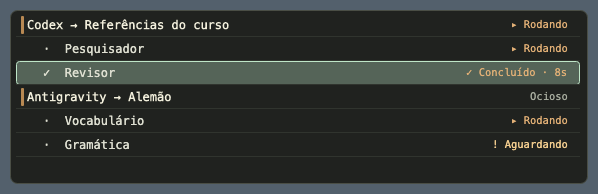
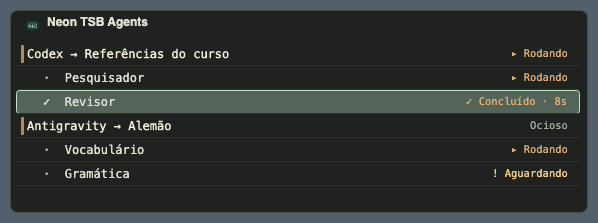
feat(mac): brand the app as Neon TSB Agents

diff --git a/src/TaskbarLed.App.Avalonia/App.axaml.cs b/src/TaskbarLed.App.Avalonia/App.axaml.cs
@@ -4,7 +4,7 @@ using Avalonia.Controls;
 using Avalonia.Controls.ApplicationLifetimes;
 using Avalonia.Markup.Xaml;
 using Avalonia.Media;
-using Avalonia.Media.Imaging;
+using Avalonia.Platform;
 using TaskbarLed.App.Avalonia.Demo;
 using TaskbarLed.App.Avalonia.Panels;
 using TaskbarLed.App.Avalonia.Presentation;
@@ -14,7 +14,7 @@ namespace TaskbarLed.App.Avalonia;
 
 public sealed partial class App : Application
 {
-    internal const string DisplayName = "Neon Task Bar";
+    internal const string DisplayName = "Neon TSB Agents";
 
     public override void Initialize()
     {
@@ -194,20 +194,7 @@ public sealed partial class App : Application
 
     private static WindowIcon CreateTrayIcon()
     {
-        var dots = new TextBlock
-        {
-            Text = "•••",
-            Foreground = Brushes.Black,
-            Background = Brushes.Transparent,
-            FontWeight = FontWeight.Bold,
-            FontSize = 15,
-            TextAlignment = TextAlignment.Center,
-        };
-        var rect = new Rect(0, 0, 24, 16);
-        dots.Measure(rect.Size);
-        dots.Arrange(rect);
-        using var bitmap = new RenderTargetBitmap(new PixelSize(48, 32), new Vector(192, 192));
-        bitmap.Render(dots);
-        return new WindowIcon(bitmap);
+        using var mark = AssetLoader.Open(new Uri("avares://TaskbarLed/Assets/NeonMark.png"));
+        return new WindowIcon(mark);
     }
 }

diff --git a/src/TaskbarLed.App.Avalonia/Panels/FloatingPanelWindow.cs b/src/TaskbarLed.App.Avalonia/Panels/FloatingPanelWindow.cs
@@ -25,7 +25,7 @@ internal sealed class FloatingPanelWindow : Window
     /// <summary>Space between the panel and the Dock, in DIP/points.</summary>
     public const double DockGap = 8;
 
-    public const double PanelHeight = PanelLayout.FloatingHeightDip + 18;
+    public const double PanelHeight = PanelLayout.FloatingHeightDip + 29;
 
     private readonly PanelViewModel _viewModel;
     private readonly Func<PanelFrame> _frames;
@@ -381,8 +381,8 @@ internal sealed class FloatingPanelWindow : Window
 
         var sessionHeight = _viewModel.IsClearList
             ? _viewModel.SessionGroups.Sum(group => 37 + (group.HasChildren ? 6 + (int)Math.Ceiling(group.Children.Count / 3.0) * 35 : 0))
-            : (_viewModel.IsLcd ? 24 : 12) + (_frame.SessionRows.Count * 24) + (_viewModel.ShowLineMap ? 29 : 0);
-        var height = Math.Clamp(sessionHeight, PanelHeight, 228);
+            : (_viewModel.IsLcd ? 24 : 12) + (_frame.SessionRows.Count * 24);
+        var height = Math.Clamp(sessionHeight + 29, PanelHeight, 228);
         if (height != _panelHeight)
         {
             _panelHeight = height;

diff --git a/tests/TaskbarLed.App.Avalonia.Tests/FloatingPanelTests.cs b/tests/TaskbarLed.App.Avalonia.Tests/FloatingPanelTests.cs
@@ -94,7 +94,7 @@ public class FloatingPanelTests
         {
             DataContext = viewModel,
             Width = FloatingPanelWindow.PanelWidth,
-            Height = Core.Visibility.PanelLayout.FloatingHeightDip,
+            Height = FloatingPanelWindow.PanelHeight,
             HorizontalAlignment = HorizontalAlignment.Center,
             VerticalAlignment = VerticalAlignment.Bottom,
             Margin = new Thickness(0, 0, 0, 6 + DockHeight + FloatingPanelWindow.DockGap),

diff --git a/tests/TaskbarLed.App.Avalonia.Tests/ThemeGalleryTests.cs b/tests/TaskbarLed.App.Avalonia.Tests/ThemeGalleryTests.cs
@@ -28,7 +28,7 @@ public class ThemeGalleryTests
         var window = new Window
         {
             Width = 598,
-            Height = 194,
+            Height = 223,
             Background = new SolidColorBrush(Color.Parse("#53606C")),
             Content = new Border { Padding = new Thickness(10), Child = view },
         };

diff --git a/docs/MACOS-THEMES.md b/docs/MACOS-THEMES.md
@@ -1,40 +1,40 @@
-# Temas do Neon Task Bar no macOS
+# Temas do Neon TSB Agents no macOS
 
-Capturas do painel renderizadas pelo Neon Task Bar com duas sessões e quatro subagentes. Escolha um tema no menu **Tema** da barra.
+Capturas do painel renderizadas pelo Neon TSB Agents com duas sessões e quatro subagentes. Escolha um tema no menu **Tema** da barra.
 
 [Instalação no Mac](MACOS.md) · [Voltar ao README](../README.pt-BR.md)
 
 | Mapa de Linhas | Índice Editorial |
 | --- | --- |
-| ![Painel do Neon Task Bar com o tema Mapa de Linhas](images/macos-themes/LineMap.png) | ![Painel do Neon Task Bar com o tema Índice Editorial](images/macos-themes/EditorialIndex.png) |
+| ![Painel do Neon TSB Agents com o tema Mapa de Linhas](images/macos-themes/LineMap.png) | ![Painel do Neon TSB Agents com o tema Índice Editorial](images/macos-themes/EditorialIndex.png) |
 
 | Janela Cobalto | Fósforo Violeta |
 | --- | --- |
-| ![Painel do Neon Task Bar com o tema Janela Cobalto](images/macos-themes/CobaltWindow.png) | ![Painel do Neon Task Bar com o tema Fósforo Violeta](images/macos-themes/VioletPhosphor.png) |
+| ![Painel do Neon TSB Agents com o tema Janela Cobalto](images/macos-themes/CobaltWindow.png) | ![Painel do Neon TSB Agents com o tema Fósforo Violeta](images/macos-themes/VioletPhosphor.png) |
 
 | LCD Oliva | Lista Clara |
 | --- | --- |
-| ![Painel do Neon Task Bar com o tema LCD Oliva](images/macos-themes/OliveLcd.png) | ![Painel do Neon Task Bar com o tema Lista Clara](images/macos-themes/ClearList.png) |
+| ![Painel do Neon TSB Agents com o tema LCD Oliva](images/macos-themes/OliveLcd.png) | ![Painel do Neon TSB Agents com o tema Lista Clara](images/macos-themes/ClearList.png) |
 
 | Âmbar em árvore | Carvão compacto |
 | --- | --- |
-| ![Painel do Neon Task Bar com o tema Âmbar em árvore](images/macos-themes/AmberTree.png) | ![Painel do Neon Task Bar com o tema Carvão compacto](images/macos-themes/CompactCharcoal.png) |
+| ![Painel do Neon TSB Agents com o tema Âmbar em árvore](images/macos-themes/AmberTree.png) | ![Painel do Neon TSB Agents com o tema Carvão compacto](images/macos-themes/CompactCharcoal.png) |
 
-| Âmbar com régua | Neon Task Bar |
+| Âmbar com régua | Neon TSB Agents |
 | --- | --- |
-| ![Painel do Neon Task Bar com o tema Âmbar com régua](images/macos-themes/AmberRail.png) | ![Painel do Neon Task Bar com o tema Neon Task Bar](images/macos-themes/ClaudeCode.png) |
+| ![Painel do Neon TSB Agents com o tema Âmbar com régua](images/macos-themes/AmberRail.png) | ![Painel do Neon TSB Agents com o tema Neon TSB Agents](images/macos-themes/ClaudeCode.png) |
 
 | Modern Terminal | Matrix |
 | --- | --- |
-| ![Painel do Neon Task Bar com o tema Modern Terminal](images/macos-themes/ModernTerminal.png) | ![Painel do Neon Task Bar com o tema Matrix](images/macos-themes/Matrix.png) |
+| ![Painel do Neon TSB Agents com o tema Modern Terminal](images/macos-themes/ModernTerminal.png) | ![Painel do Neon TSB Agents com o tema Matrix](images/macos-themes/Matrix.png) |
 
 | Mono | Minimal |
 | --- | --- |
-| ![Painel do Neon Task Bar com o tema Mono](images/macos-themes/Mono.png) | ![Painel do Neon Task Bar com o tema Minimal](images/macos-themes/Minimal.png) |
+| ![Painel do Neon TSB Agents com o tema Mono](images/macos-themes/Mono.png) | ![Painel do Neon TSB Agents com o tema Minimal](images/macos-themes/Minimal.png) |
 
 | Glass | Paper |
 | --- | --- |
-| ![Painel do Neon Task Bar com o tema Glass](images/macos-themes/Glass.png) | ![Painel do Neon Task Bar com o tema Paper](images/macos-themes/Paper.png) |
+| ![Painel do Neon TSB Agents com o tema Glass](images/macos-themes/Glass.png) | ![Painel do Neon TSB Agents com o tema Paper](images/macos-themes/Paper.png) |
 
 ## Atualizar as capturas
 

diff --git a/docs/MACOS.md b/docs/MACOS.md
@@ -1,4 +1,4 @@
-# Neon Task Bar on macOS
+# Neon TSB Agents on macOS
 
 The fork's macOS build targets Apple Silicon (M1 and newer) and requires macOS 14 Sonoma or later. The bundle includes the .NET 10 runtime for both the panel and hook. Builds from source include the original MIT license and contributor notice in `Contents/Resources/LICENSE`. The macOS port is based on [TaskbarLed by llorenzojorge and contributors](https://github.com/llorenzojorge/TaskbarLed). [Microsoft's .NET compatibility table](https://learn.microsoft.com/en-us/dotnet/core/install/macos#supported-versions)
 
@@ -18,10 +18,10 @@ From the repository root, with the .NET SDK from `global.json` and Apple's comma
 src/TaskbarLed.App.Avalonia/build-macos.sh
 ```
 
-The script produces `artifacts/TaskbarLed-osx-arm64/Neon Task Bar.app` and `TaskbarLed-osx-arm64.zip` in the same directory. Move the app to its permanent location before registering hooks.
+The script produces `artifacts/TaskbarLed-osx-arm64/Neon TSB Agents.app` and `TaskbarLed-osx-arm64.zip` in the same directory. Move the app to its permanent location before registering hooks.
 
 ```sh
-app="$PWD/artifacts/TaskbarLed-osx-arm64/Neon Task Bar.app"
+app="$PWD/artifacts/TaskbarLed-osx-arm64/Neon TSB Agents.app"
 "$app/Contents/MacOS/TaskbarLed" --install-hooks
 open "$app"
 ```
@@ -34,9 +34,9 @@ By default, the panel floats above the Dock on the primary display. It stays vis
 
 ## Move, resize and change the look
 
-Right-click the panel or click the Neon Task Bar menu bar icon. The right-click menu follows the panel theme and highlights **Quit** (**Encerrar** in Portuguese) with a power icon. **Edit position and size** opens a preview you can drag to another spot. Drag the grip on the right edge to change the width. **Save** (Enter) stores the placement and snaps it to a nearby screen edge. **Cancel** (Esc) restores the previous placement. **Reset position above Dock** restores the default size and position.
+Right-click the panel or click the Neon TSB Agents menu bar icon. The right-click menu follows the panel theme and highlights **Quit** (**Encerrar** in Portuguese) with a power icon. **Edit position and size** opens a preview you can drag to another spot. Drag the grip on the right edge to change the width. **Save** (Enter) stores the placement and snaps it to a nearby screen edge. **Cancel** (Esc) restores the previous placement. **Reset position above Dock** restores the default size and position.
 
-Use **Theme** to switch live between Neon Task Bar, Modern Terminal, Matrix, Mono, Minimal, Glass and Paper. On macOS, the menu also includes Âmbar em árvore, Carvão compacto, Âmbar com régua and Lista Clara. These styles apply to the session hierarchy and its state labels. The five entries marked with • are Índice Editorial, Janela Cobalto, Fósforo Violeta, Mapa de Linhas and LCD Oliva. The default is Neon Task Bar. [See the gallery of all 16 macOS themes](MACOS-THEMES.md). TaskbarLed stores the selected theme and placement in `~/Library/Application Support/TaskbarLed/panel.json`.
+Use **Theme** to switch live between Neon TSB Agents, Modern Terminal, Matrix, Mono, Minimal, Glass and Paper. On macOS, the menu also includes Âmbar em árvore, Carvão compacto, Âmbar com régua and Lista Clara. These styles apply to the session hierarchy and its state labels. The five entries marked with • are Índice Editorial, Janela Cobalto, Fósforo Violeta, Mapa de Linhas and LCD Oliva. The default is Neon TSB Agents. [See the gallery of all 16 macOS themes](MACOS-THEMES.md). TaskbarLed stores the selected theme and placement in `~/Library/Application Support/TaskbarLed/panel.json`.
 
 ## Automatic local detection
 
